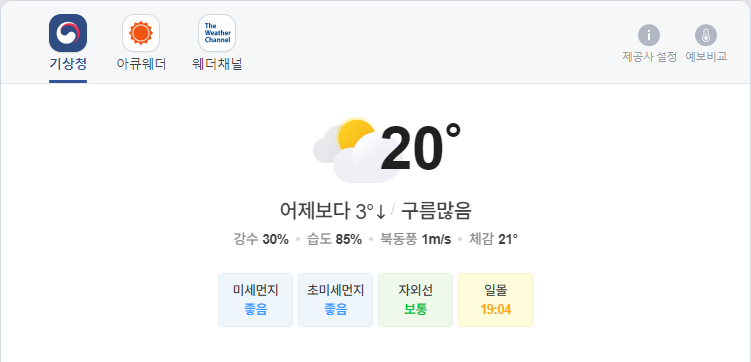
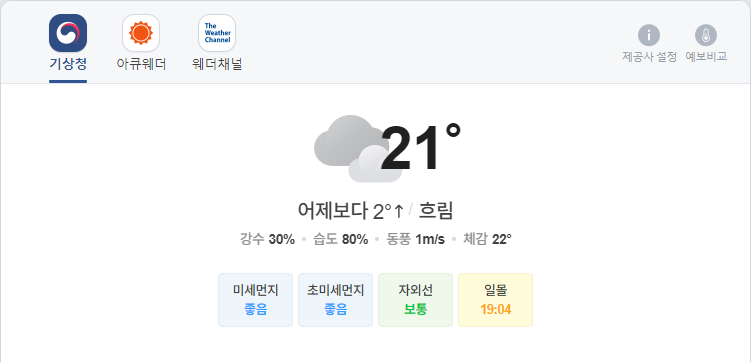
update result

diff --git a/README.md b/README.md
@@ -1,5 +1,5 @@
-##  2021-09-01 09:16:47   수요일 
-##### 날씨   -   어제보다 3° 낮아요구름많음  
+##  2021-09-01 12:07:33   수요일 
+##### 날씨   -   어제보다 2° 높아요흐림  
 <center><img src="../img/naver_weather_week.png"></center>
 ----
 ----
@@ -16,14 +16,14 @@
 <tr align = "right" > <td>DOW</td><td>35,360.73</td><td>-39.11</td><td><font size="3" color="blue" >-0.11%</font></td><td><font size="3" color="black">0</font></td><td><font size="3" color="black">0</font></td><td>0</td>  </tr>
 <tr align = "right" > <td>NASDAQ</td><td>15,259.24</td><td>-6.65</td><td><font size="3" color="blue" >-0.04%</font></td><td><font size="3" color="black">0</font></td><td><font size="3" color="black">0</font></td><td>0</td>  </tr>
 <tr align = "right" > <td>S&P</td><td>4,522.68</td><td>-6.11</td><td><font size="3" color="blue" >-0.13%</font></td><td><font size="3" color="black">0</font></td><td><font size="3" color="black">0</font></td><td>0</td>  </tr>
-<tr align = "right" > <td>SHANHAI</td><td>3,543.94</td><td>15.79</td><td><font size="3" color="red" >0.45%</font></td><td><font size="3" color="black">0</font></td><td><font size="3" color="black">0</font></td><td>0</td>  </tr>
+<tr align = "right" > <td>SHANHAI</td><td>3,537.63</td><td>-6.31</td><td><font size="3" color="blue" >-0.18%</font></td><td><font size="3" color="black">0</font></td><td><font size="3" color="black">0</font></td><td>0</td>  </tr>
 <tr align = "right" > <td>INDIA</td><td>57,552.39</td><td>662.63</td><td><font size="3" color="red" >1.16%</font></td><td><font size="3" color="black">0</font></td><td><font size="3" color="black">0</font></td><td>0</td>  </tr>
 </table>
 ----
 ##### 시장
 <table border="1" bordercolor="blue" align = "center" >
 <tr align = "right" > <td>Item</td><td>Price</td><td>Diff</td><td>Rate</td><td>Buy</td><td>Sell</td><td>...</td>  </tr>
-<tr align = "right" > <td>USD</td><td>1,157.0</td><td>0.0</td><td><font size="3" color="black">0%</font></td><td><font size="3" color="black">1,110</font></td><td><font size="3" color="black">0</font></td><td>0</td>  </tr>
+<tr align = "right" > <td>USD</td><td>1,156.0</td><td>-1.4</td><td><font size="3" color="blue">-0.12%</font></td><td><font size="3" color="black">1,110</font></td><td><font size="3" color="black">0</font></td><td>0</td>  </tr>
 <tr align = "right" > <td>WTI</td><td>68.5</td><td>-0.71</td><td><font size="3" color="blue">-1.02%</font></td><td><font size="3" color="black">29.0</font></td><td><font size="3" color="black">0</font></td><td>0</td>  </tr>
 <tr align = "right" > <td>GOLD</td><td>1,815.0</td><td>6.0</td><td><font size="3" color="red">0.33%</font></td><td><font size="3" color="black">0</font></td><td><font size="3" color="black">0</font></td><td>0</td>  </tr>
 </table>
@@ -31,32 +31,32 @@
 ##### 주가
 <table border="1" bordercolor="blue" align = "center" >
 <tr align = "right" > <td>Item</td><td>Price</td><td>Diff</td><td>Rate</td><td>Purchased</td><td>Sell</td><td>Buy</td>  </tr>
-<tr align = "right" > <td>한국 전력</td><td>24,050</td><td>50</td><td><font size="3" color="red">0.21%</font></td><td>25,720</td><td><font size="3" color="black">27,700</font></td><td><font size="3" color="black">20,700</font></td>  </tr>
-<tr align = "right" > <td>삼성엔지니어.</td><td>22,300</td><td>-50</td><td><font size="3" color="blue">-0.22%</font></td><td>18,935</td><td><font size="3" color="black">20,000</font></td><td><font size="3" color="black">8,000</font></td>  </tr>
-<tr align = "right" > <td>CJ CGV</td><td>30,800</td><td>500</td><td><font size="3" color="red">1.65%</font></td><td>34,895</td><td><font size="3" color="black">36,000</font></td><td><font size="3" color="black">0</font></td>  </tr>
+<tr align = "right" > <td>한국 전력</td><td>24,100</td><td>100</td><td><font size="3" color="red">0.42%</font></td><td>25,720</td><td><font size="3" color="black">27,700</font></td><td><font size="3" color="black">20,700</font></td>  </tr>
+<tr align = "right" > <td>삼성엔지니어.</td><td>23,650</td><td>1,300</td><td><font size="3" color="red">5.82%</font></td><td>18,935</td><td><font size="3" color="black">20,000</font></td><td><font size="3" color="black">8,000</font></td>  </tr>
+<tr align = "right" > <td>CJ CGV</td><td>31,200</td><td>900</td><td><font size="3" color="red">2.97%</font></td><td>34,895</td><td><font size="3" color="black">36,000</font></td><td><font size="3" color="black">0</font></td>  </tr>
 <tr align = "right" > <td>아모레퍼시픽</td><td>227,500</td><td>0</td><td><font size="3" color="black">0.0%</font></td><td>235,350</td><td><font size="3" color="black">240,000</font></td><td><font size="3" color="black">130,000</font></td>  </tr>
-<tr align = "right" > <td>한화</td><td>35,150</td><td>350</td><td><font size="3" color="red">1.01%</font></td><td>25,550</td><td><font size="3" color="black">26,250</font></td><td><font size="3" color="black">26,250</font></td>  </tr>
-<tr align = "right" > <td>NAVER</td><td>438,500</td><td>-500</td><td><font size="3" color="blue">-0.11%</font></td><td>147,200</td><td><font size="3" color="black">386,000</font></td><td><font size="3" color="black">286,000</font></td>  </tr>
-<tr align = "right" > <td>LG 화학우</td><td>345,000</td><td>-1,000</td><td><font size="3" color="blue">-0.29%</font></td><td>202,490</td><td><font size="3" color="black">384,000</font></td><td><font size="3" color="orangered">384,000</font></td>  </tr>
-<tr align = "right" > <td>스튜디오드래.</td><td>87,600</td><td>600</td><td><font size="3" color="red">0.69%</font></td><td>81,243</td><td><font size="3" color="black">85,200</font></td><td><font size="3" color="black">85,200</font></td>  </tr>
-<tr align = "right" > <td>QV미국IT</td><td>33,105</td><td>-90</td><td><font size="3" color="blue">-0.27%</font></td><td>0</td><td><font size="3" color="black">30,000</font></td><td><font size="3" color="black">20,000</font></td>  </tr>
-<tr align = "right" > <td>삼성 전자우</td><td>70,800</td><td>0</td><td><font size="3" color="black">0.0%</font></td><td>60,675</td><td><font size="3" color="black">76,000</font></td><td><font size="3" color="black">55,000</font></td>  </tr>
-<tr align = "right" > <td>LS</td><td>66,800</td><td>200</td><td><font size="3" color="red">0.3%</font></td><td>71,900</td><td><font size="3" color="black">82,000</font></td><td><font size="3" color="black">60,000</font></td>  </tr>
-<tr align = "right" > <td>한화에어로스.</td><td>50,800</td><td>-100</td><td><font size="3" color="blue">-0.2%</font></td><td>25,700</td><td><font size="3" color="black">30,000</font></td><td><font size="3" color="black">24,000</font></td>  </tr>
-<tr align = "right" > <td>한화시스템.</td><td>19,600</td><td>-150</td><td><font size="3" color="blue">-0.76%</font></td><td>16,875</td><td><font size="3" color="black">30,000</font></td><td><font size="3" color="black">14,000</font></td>  </tr>
+<tr align = "right" > <td>한화</td><td>35,050</td><td>250</td><td><font size="3" color="red">0.72%</font></td><td>25,550</td><td><font size="3" color="black">26,250</font></td><td><font size="3" color="black">26,250</font></td>  </tr>
+<tr align = "right" > <td>NAVER</td><td>442,000</td><td>3,000</td><td><font size="3" color="red">0.68%</font></td><td>147,200</td><td><font size="3" color="black">386,000</font></td><td><font size="3" color="black">286,000</font></td>  </tr>
+<tr align = "right" > <td>LG 화학우</td><td>336,000</td><td>-10,000</td><td><font size="3" color="blue">-2.89%</font></td><td>202,490</td><td><font size="3" color="black">384,000</font></td><td><font size="3" color="orangered">384,000</font></td>  </tr>
+<tr align = "right" > <td>스튜디오드래.</td><td>87,400</td><td>400</td><td><font size="3" color="red">0.46%</font></td><td>81,243</td><td><font size="3" color="black">85,200</font></td><td><font size="3" color="black">85,200</font></td>  </tr>
+<tr align = "right" > <td>QV미국IT</td><td>33,150</td><td>-45</td><td><font size="3" color="blue">-0.14%</font></td><td>0</td><td><font size="3" color="black">30,000</font></td><td><font size="3" color="black">20,000</font></td>  </tr>
+<tr align = "right" > <td>삼성 전자우</td><td>70,500</td><td>-300</td><td><font size="3" color="blue">-0.42%</font></td><td>60,675</td><td><font size="3" color="black">76,000</font></td><td><font size="3" color="black">55,000</font></td>  </tr>
+<tr align = "right" > <td>LS</td><td>66,900</td><td>300</td><td><font size="3" color="red">0.45%</font></td><td>71,900</td><td><font size="3" color="black">82,000</font></td><td><font size="3" color="black">60,000</font></td>  </tr>
+<tr align = "right" > <td>한화에어로스.</td><td>50,600</td><td>-300</td><td><font size="3" color="blue">-0.59%</font></td><td>25,700</td><td><font size="3" color="black">30,000</font></td><td><font size="3" color="black">24,000</font></td>  </tr>
+<tr align = "right" > <td>한화시스템.</td><td>19,450</td><td>-300</td><td><font size="3" color="blue">-1.52%</font></td><td>16,875</td><td><font size="3" color="black">30,000</font></td><td><font size="3" color="black">14,000</font></td>  </tr>
 <tr align = "right" > <td>카카오</td><td>154,500</td><td>-500</td><td><font size="3" color="blue">-0.32%</font></td><td>405,500</td><td><font size="3" color="black">440,000</font></td><td><font size="3" color="orangered">400,000</font></td>  </tr>
-<tr align = "right" > <td>호텔 신라</td><td>89,200</td><td>-600</td><td><font size="3" color="blue">-0.67%</font></td><td>88,650</td><td><font size="3" color="black">100,000</font></td><td><font size="3" color="black">70,000</font></td>  </tr>
-<tr align = "right" > <td>S-Oil</td><td>93,200</td><td>-1,900</td><td><font size="3" color="blue">-2.0%</font></td><td>62,842</td><td><font size="3" color="black">100,000</font></td><td><font size="3" color="black">50,000</font></td>  </tr>
-<tr align = "right" > <td>LG전자</td><td>141,500</td><td>-500</td><td><font size="3" color="blue">-0.35%</font></td><td>82,022</td><td><font size="3" color="black">100,000</font></td><td><font size="3" color="black">60,000</font></td>  </tr>
-<tr align = "right" > <td>KT&G</td><td>81,400</td><td>-200</td><td><font size="3" color="blue">-0.25%</font></td><td>79,700</td><td><font size="3" color="black">100,000</font></td><td><font size="3" color="black">70,000</font></td>  </tr>
-<tr align = "right" > <td>지역난방공사</td><td>40,400</td><td>0</td><td><font size="3" color="black">0.0%</font></td><td>43,590</td><td><font size="3" color="black">60,000</font></td><td><font size="3" color="black">30,000</font></td>  </tr>
-<tr align = "right" > <td>맥쿼리인프라</td><td>12,400</td><td>0</td><td><font size="3" color="black">0.0%</font></td><td>12,577</td><td><font size="3" color="black">30,000</font></td><td><font size="3" color="black">10,000</font></td>  </tr>
-<tr align = "right" > <td>KOEDX은행</td><td>7,455</td><td>15</td><td><font size="3" color="red">0.2%</font></td><td>7,578</td><td><font size="3" color="black">8,825</font></td><td><font size="3" color="black">6,225</font></td>  </tr>
-<tr align = "right" > <td>글로벌럭셔리</td><td>17,730</td><td>-95</td><td><font size="3" color="blue">-0.53%</font></td><td>16,302</td><td><font size="3" color="black">20,000</font></td><td><font size="3" color="black">10,000</font></td>  </tr>
-<tr align = "right" > <td>TIRGER200건설</td><td>3,290</td><td>0</td><td><font size="3" color="black">0.0%</font></td><td>3,440</td><td><font size="3" color="black">4,000</font></td><td><font size="3" color="black">3,000</font></td>  </tr>
-<tr align = "right" > <td>KODEXK미래차</td><td>10,655</td><td>100</td><td><font size="3" color="red">0.95%</font></td><td>10,955</td><td><font size="3" color="black">20,000</font></td><td><font size="3" color="black">10,000</font></td>  </tr>
-<tr align = "right" > <td>TIGER글로벌BBIG</td><td>12,080</td><td>-25</td><td><font size="3" color="blue">-0.21%</font></td><td>11,020</td><td><font size="3" color="black">20,000</font></td><td><font size="3" color="black">10,000</font></td>  </tr>
-<tr align = "right" > <td>TIGER퓨처모빌리티</td><td>11,100</td><td>35</td><td><font size="3" color="red">0.32%</font></td><td>10,695</td><td><font size="3" color="black">20,000</font></td><td><font size="3" color="black">10,000</font></td>  </tr>
-<tr align = "right" > <td>한국금융지주</td><td>94,400</td><td>-900</td><td><font size="3" color="blue">-0.94%</font></td><td>0</td><td><font size="3" color="black">82,000</font></td><td><font size="3" color="black">60,000</font></td>  </tr>
+<tr align = "right" > <td>호텔 신라</td><td>88,800</td><td>-1,000</td><td><font size="3" color="blue">-1.11%</font></td><td>88,650</td><td><font size="3" color="black">100,000</font></td><td><font size="3" color="black">70,000</font></td>  </tr>
+<tr align = "right" > <td>S-Oil</td><td>92,500</td><td>-2,600</td><td><font size="3" color="blue">-2.73%</font></td><td>62,842</td><td><font size="3" color="black">100,000</font></td><td><font size="3" color="black">50,000</font></td>  </tr>
+<tr align = "right" > <td>LG전자</td><td>141,000</td><td>-1,000</td><td><font size="3" color="blue">-0.7%</font></td><td>82,022</td><td><font size="3" color="black">100,000</font></td><td><font size="3" color="black">60,000</font></td>  </tr>
+<tr align = "right" > <td>KT&G</td><td>81,700</td><td>100</td><td><font size="3" color="red">0.12%</font></td><td>79,700</td><td><font size="3" color="black">100,000</font></td><td><font size="3" color="black">70,000</font></td>  </tr>
+<tr align = "right" > <td>지역난방공사</td><td>40,550</td><td>150</td><td><font size="3" color="red">0.37%</font></td><td>43,590</td><td><font size="3" color="black">60,000</font></td><td><font size="3" color="black">30,000</font></td>  </tr>
+<tr align = "right" > <td>맥쿼리인프라</td><td>12,550</td><td>150</td><td><font size="3" color="red">1.21%</font></td><td>12,577</td><td><font size="3" color="black">30,000</font></td><td><font size="3" color="black">10,000</font></td>  </tr>
+<tr align = "right" > <td>KOEDX은행</td><td>7,450</td><td>10</td><td><font size="3" color="red">0.13%</font></td><td>7,578</td><td><font size="3" color="black">8,825</font></td><td><font size="3" color="black">6,225</font></td>  </tr>
+<tr align = "right" > <td>글로벌럭셔리</td><td>17,755</td><td>-70</td><td><font size="3" color="blue">-0.39%</font></td><td>16,302</td><td><font size="3" color="black">20,000</font></td><td><font size="3" color="black">10,000</font></td>  </tr>
+<tr align = "right" > <td>TIRGER200건설</td><td>3,325</td><td>35</td><td><font size="3" color="red">1.06%</font></td><td>3,440</td><td><font size="3" color="black">4,000</font></td><td><font size="3" color="black">3,000</font></td>  </tr>
+<tr align = "right" > <td>KODEXK미래차</td><td>10,585</td><td>30</td><td><font size="3" color="red">0.28%</font></td><td>10,955</td><td><font size="3" color="black">20,000</font></td><td><font size="3" color="black">10,000</font></td>  </tr>
+<tr align = "right" > <td>TIGER글로벌BBIG</td><td>12,040</td><td>-65</td><td><font size="3" color="blue">-0.54%</font></td><td>11,020</td><td><font size="3" color="black">20,000</font></td><td><font size="3" color="black">10,000</font></td>  </tr>
+<tr align = "right" > <td>TIGER퓨처모빌리티</td><td>11,030</td><td>-35</td><td><font size="3" color="blue">-0.32%</font></td><td>10,695</td><td><font size="3" color="black">20,000</font></td><td><font size="3" color="black">10,000</font></td>  </tr>
+<tr align = "right" > <td>한국금융지주</td><td>94,900</td><td>-400</td><td><font size="3" color="blue">-0.42%</font></td><td>0</td><td><font size="3" color="black">82,000</font></td><td><font size="3" color="black">60,000</font></td>  </tr>
 </table>
 ----
